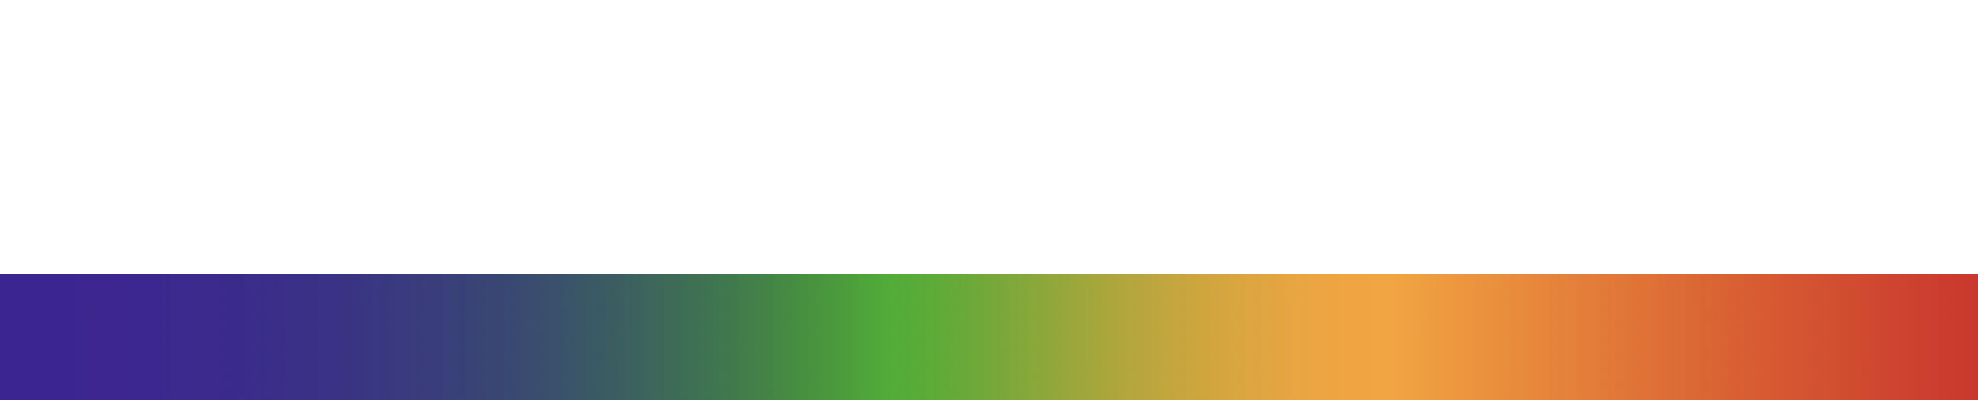
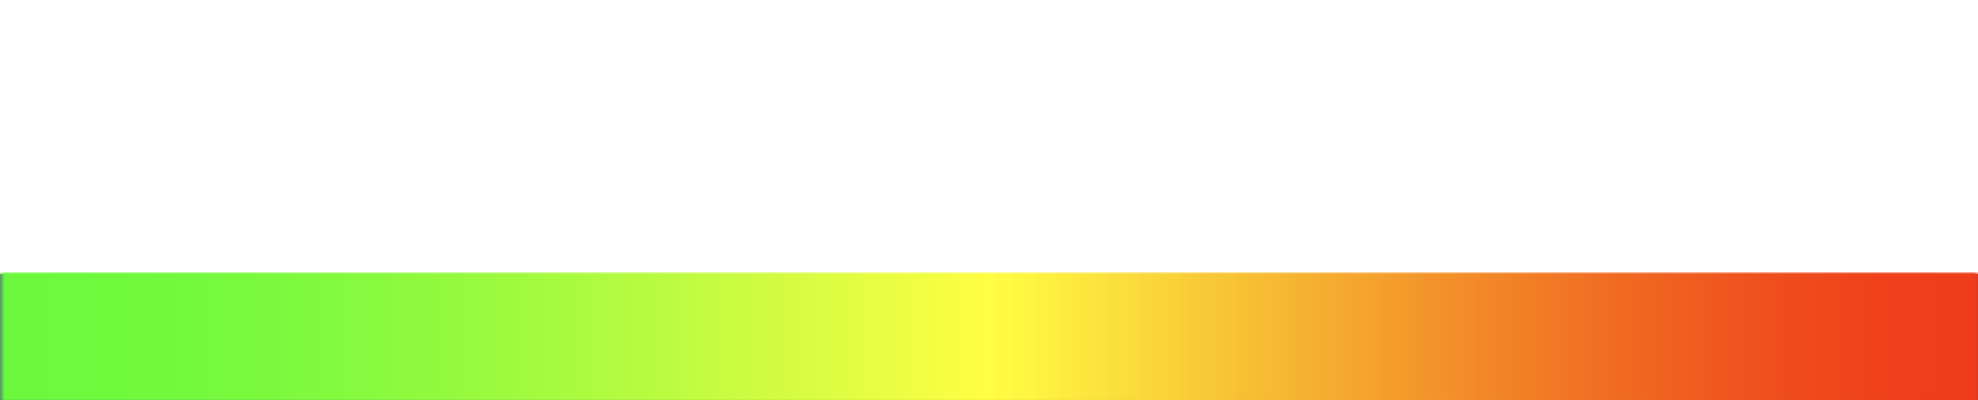
Added spectrum meter to node modals, updated minimap styling

Changed region(s): [[0.0, 0.66, 1.0, 1.0]]

diff --git a/src/app/components/InfoModal/InfoModal.tsx b/src/app/components/InfoModal/InfoModal.tsx
@@ -5,6 +5,7 @@ import { Dispatch, SetStateAction } from 'react'
 import { getDemographicsById } from '@/app/util/getDemographic'
 import { getYearText } from '@/app/util/years'
 import { Tooltip as ReactTooltip } from 'react-tooltip'
+import { SpectrumInfo } from '../SpectrumInfo/SpectrumInfo'
 
 export const BibleDemographicsTable = (props: BibleModalProps) => {
   if (!props.data || props.data.data.title === 'God') return null
@@ -29,9 +30,12 @@ export const BibleDemographicsTable = (props: BibleModalProps) => {
   return (
     <div className="relative rounded-lg overflow-x-auto">
       <div className="flex whitespace-nowrap items-center justify-center p-4 border-b bg-gray-800 border-gray-700 bg-opacity-25 w-full">
-        <ActivatePathButton {...props} />
-        <ResetPathsButton {...props} />
+        <SpectrumInfo
+          {...props}
+          spectrum={parseInt(props.data.data.spectrum)}
+        />
       </div>
+
       <table className="w-full text-sm text-left text-gray-400">
         <tbody>
           <Row title="Year Published">{getYearText(parseInt(data.year))}</Row>
@@ -45,6 +49,10 @@ export const BibleDemographicsTable = (props: BibleModalProps) => {
           ) : null}
         </tbody>
       </table>
+      <div className="flex whitespace-nowrap items-center justify-center p-4 border-b bg-gray-800 border-gray-700 bg-opacity-25 w-full">
+        <ActivatePathButton {...props} />
+        <ResetPathsButton {...props} />
+      </div>
     </div>
   )
 }
@@ -251,7 +259,7 @@ export const InfoModal = (props: BibleModalProps) => {
         />
         <ReactTooltip
           id="source-button-tooltip"
-          place="bottom"
+          place="top"
           variant="error"
           isOpen={props.showTooltips}
         />

diff --git a/src/app/components/SpectrumInfo/SpectrumInfo.tsx b/src/app/components/SpectrumInfo/SpectrumInfo.tsx
@@ -1,0 +1,54 @@
+import { Tooltip as ReactTooltip } from 'react-tooltip'
+
+interface SpectrumInfoProps {
+  spectrum: number
+  showTooltips: boolean
+}
+export const SpectrumInfo = (props: SpectrumInfoProps) => {
+  const position =
+    props.spectrum === 300
+      ? 'left'
+      : props.spectrum === 200
+      ? 'center'
+      : 'right'
+  const spectrumTitle =
+    props.spectrum === 300
+      ? 'Literal'
+      : props.spectrum === 200
+      ? 'Author Intent'
+      : 'Paraphrase'
+  return (
+    <div className="flex flex-col gap-4 justify-center align-middle items-center w-full">
+      <div
+        style={{
+          justifyContent: position,
+        }}
+        className="flex items-center w-full"
+      >
+        <p
+          data-tooltip-id="spectrum-tooltip"
+          data-tooltip-content="Where the translation falls on the interpretation spectrum"
+        >
+          {spectrumTitle}
+        </p>
+      </div>
+      <div
+        style={{
+          justifyContent: position,
+        }}
+        className="w-full h-4 flex items-center relative overflow-hidden rounded-lg"
+      >
+        <div className="mx-1 w-[15px] h-[15px] absolute rounded-lg flex justify-center items-center bg-black">
+          <div className="w-[10px] h-[10px] rounded-lg bg-white" />
+        </div>
+        <img className="w-full" src="/assets/images/spectrum-bar.png" />
+      </div>
+      <ReactTooltip
+        id="spectrum-tooltip"
+        place="bottom"
+        variant="error"
+        isOpen={props.showTooltips}
+      />
+    </div>
+  )
+}

diff --git a/src/app/components/GraphTree/GraphTree.tsx b/src/app/components/GraphTree/GraphTree.tsx
@@ -22,6 +22,7 @@ import {
   QuestionMarkCircleIcon,
 } from '@heroicons/react/20/solid'
 import { Tooltip as ReactTooltip } from 'react-tooltip'
+import { getColorFromSpectrum } from '@/app/util/spectrums'
 
 const nodeTypes = {
   activeGraphNode: ActiveGraphNode,
@@ -103,15 +104,19 @@ const Flow = (props: GraphTreeProps) => {
           zoomable
           pannable
           nodeColor={(node) => {
-            return Category_Colors[
-              node.data.category as keyof typeof Category_Colors
-            ]
+            return node.data.title === 'God'
+              ? '#FFFFFF'
+              : getColorFromSpectrum(parseInt(node.data.spectrum))
           }}
           style={{
             backdropFilter: 'blur(10px)',
             WebkitBackdropFilter: 'blur(10px)',
             backgroundColor: hext('#808080', 30),
+            borderRadius: '10px',
+            overflow: 'hidden',
           }}
+          ariaLabel="Mini Map"
+          maskColor={hext('#808080', 30)}
         />
 
         <Controls onFitView={() => fitView()} showInteractive={false}>

diff --git a/src/app/components/GraphTree/GraphNode/GraphNode.tsx b/src/app/components/GraphTree/GraphNode/GraphNode.tsx
@@ -3,7 +3,7 @@ import { Handle, NodeProps, Position } from 'reactflow'
 import { hext } from '@davealdon/hext'
 import { getYearText } from '@/app/util/years'
 import { Bible } from '../../../../../types/tree'
-import { getColorFromSpectrum } from '../../../../../types/spectrums.enum'
+import { getColorFromSpectrum } from '../../../util/spectrums'
 
 const GraphNode = ({ data, active }: { data: Bible; active: boolean }) => {
   let acronymFontSize = '2rem'
@@ -15,8 +15,6 @@ const GraphNode = ({ data, active }: { data: Bible; active: boolean }) => {
     data.title === 'God'
       ? '#FFFFFF'
       : getColorFromSpectrum(parseInt(data.spectrum))
-  /* const outline =
-    Category_Colors[data.category as keyof typeof Category_Colors] || '#000000' */
 
   return (
     <div

diff --git a/src/app/util/spectrums.ts b/src/app/util/spectrums.ts
@@ -1,0 +1,25 @@
+const convertToScale = (
+  num: number,
+  oldMin: number,
+  oldMax: number,
+  newMin: number,
+  newMax: number
+) => {
+  return ((num - oldMin) * (newMax - newMin)) / (oldMax - oldMin) + newMin
+}
+
+export const getColorFromSpectrum = (spectrum: number) => {
+  const newSpectrum = convertToScale(spectrum, 100, 300, 0, 100)
+  var r,
+    g,
+    b = 0
+  if (newSpectrum < 50) {
+    r = 255
+    g = Math.round(5.1 * newSpectrum)
+  } else {
+    g = 255
+    r = Math.round(510 - 5.1 * newSpectrum)
+  }
+  var h = r * 0x10000 + g * 0x100 + b * 0x1
+  return `#${('000000' + h.toString(16)).slice(-6)}`
+}
